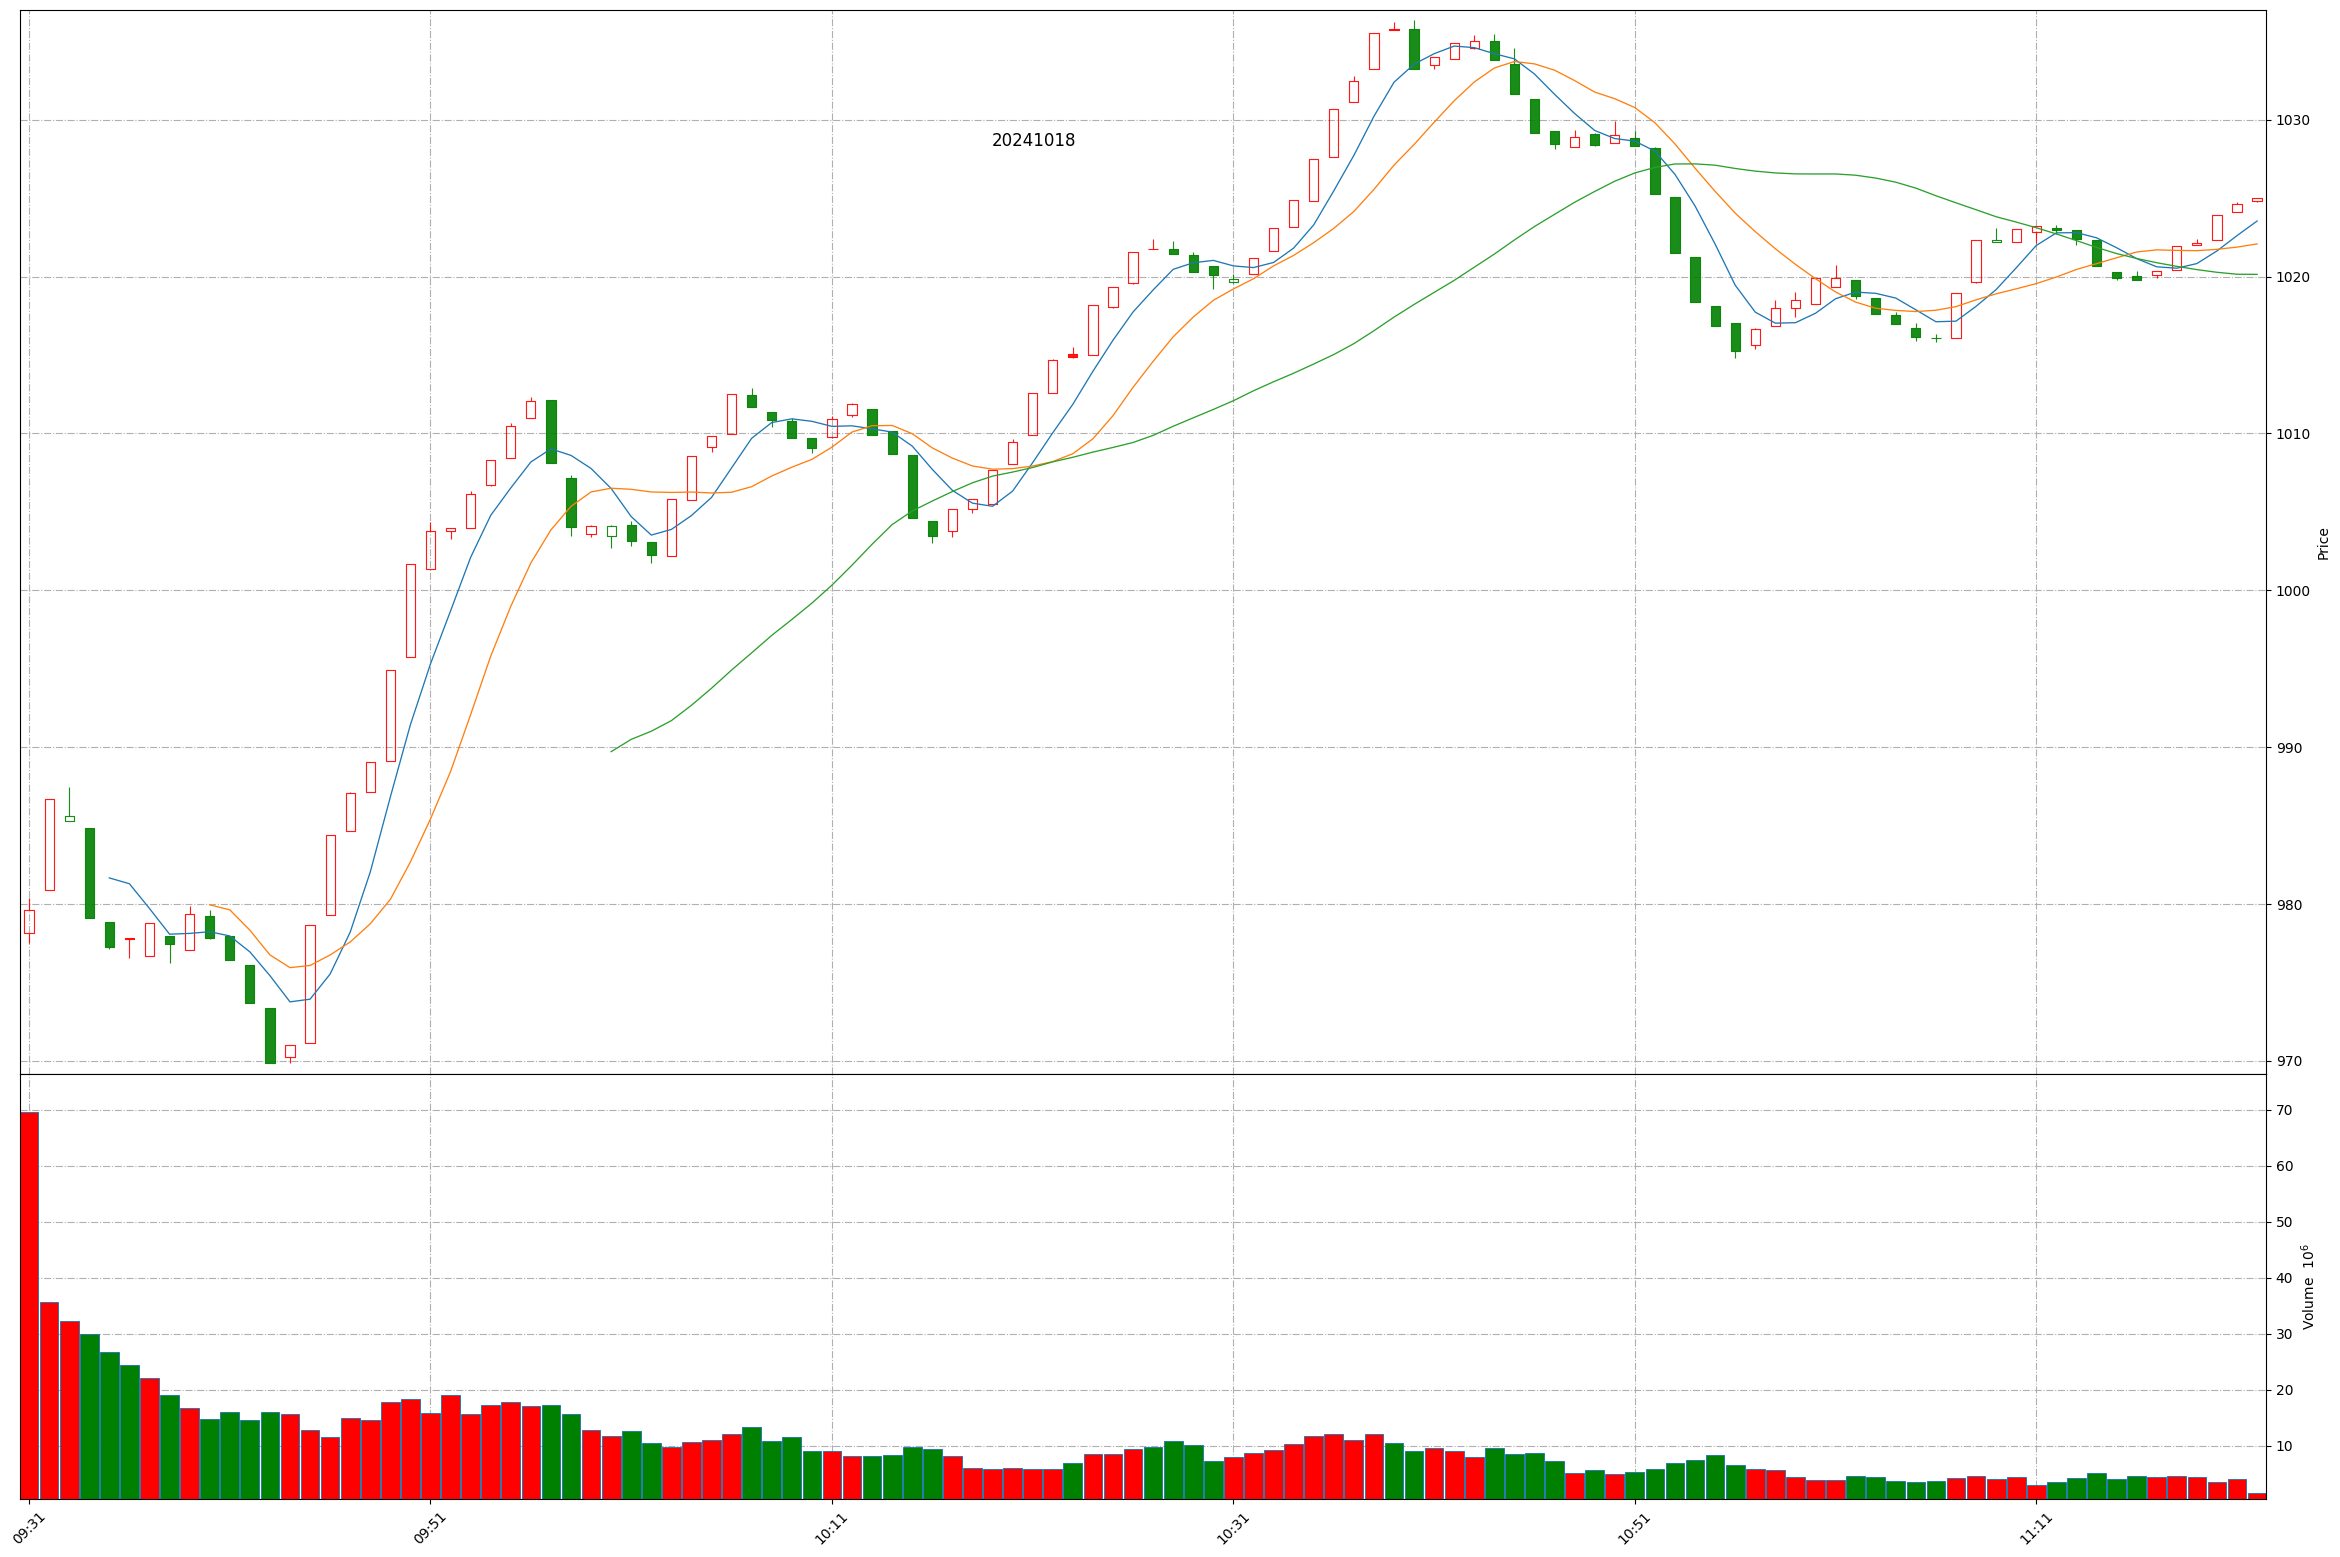
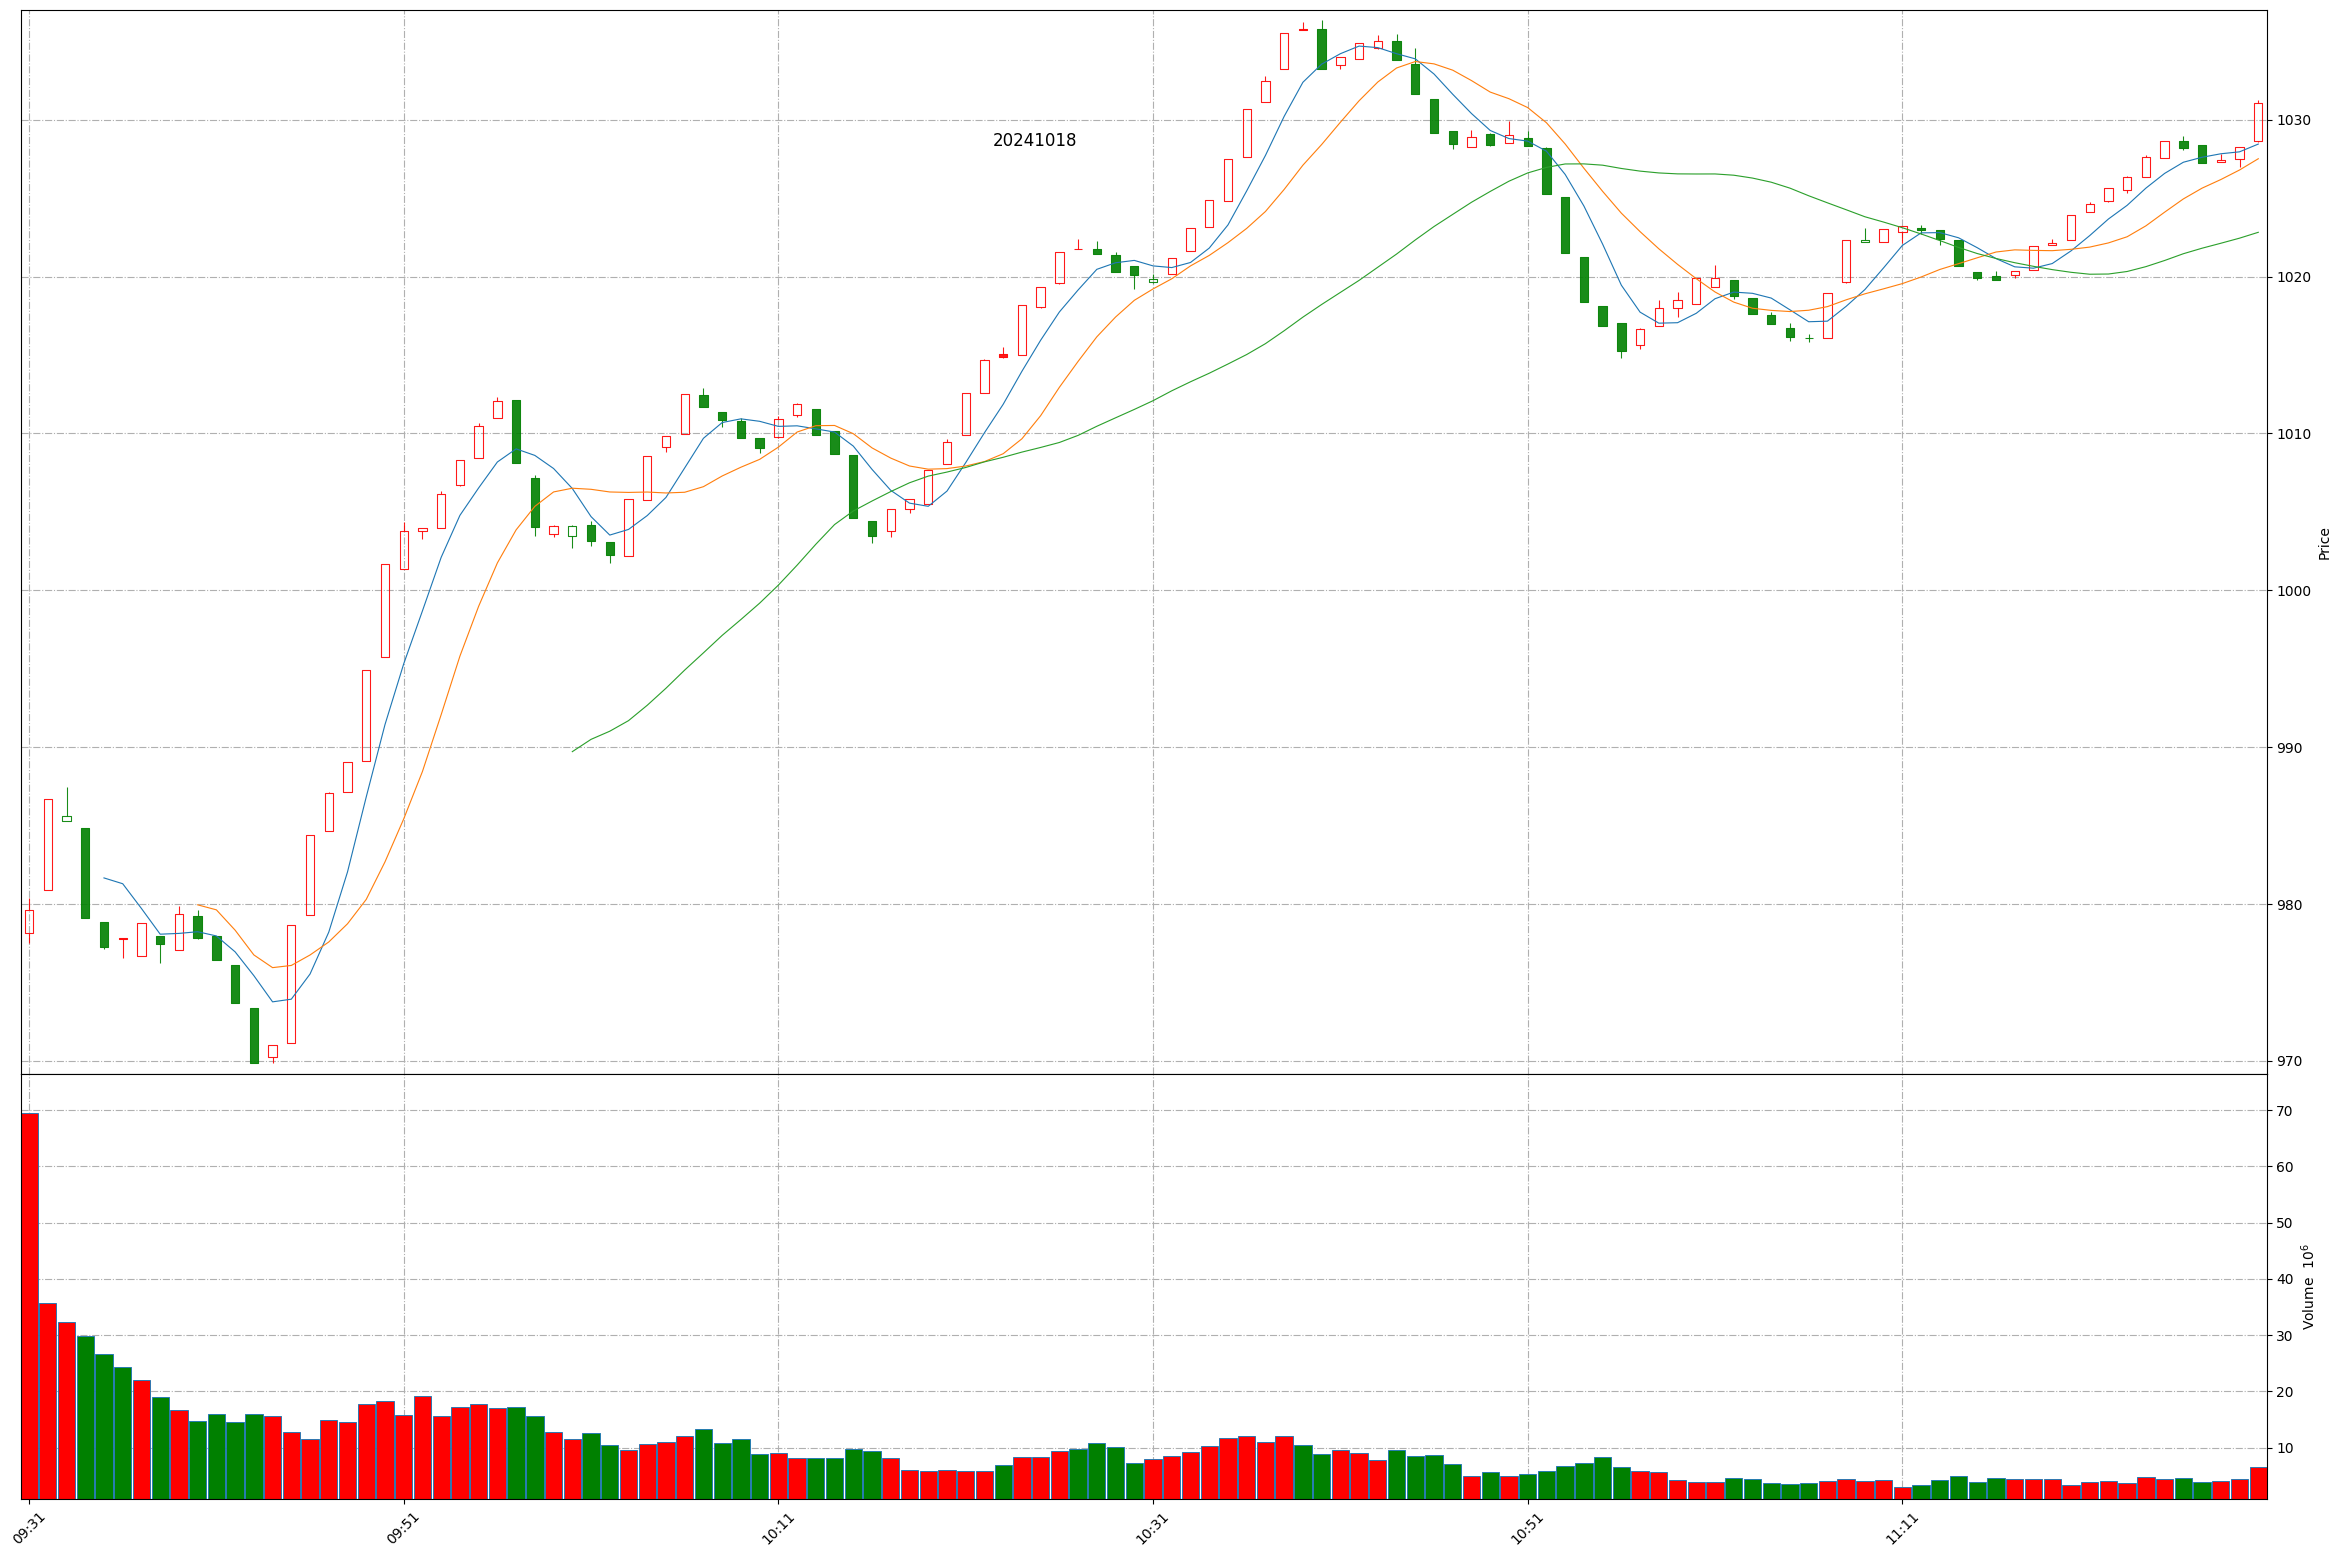
Github action update at 2024-10-18 11:31:32.

diff --git a/README.md b/README.md
@@ -1,11 +1,11 @@
 
 # Daily-A-share-market-quotes 每日 A 股指数（5min 更新）- 20241018
 
-### 上证指数 20241018 11:21
+### 上证指数 20241018 11:31
 ![](./fig/2024/10/20241018-sh000001.png)
 
-### 深证成指 20241018 11:21
+### 深证成指 20241018 11:31
 ![](./fig/2024/10/20241018-sz399001.png)
 
-### 北证50 20241018 11:21
+### 北证50 20241018 11:31
 ![](./fig/2024/10/20241018-bj899050.png)
